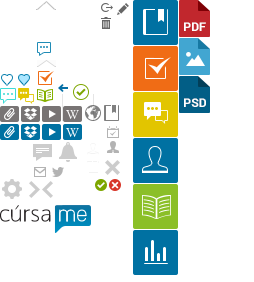
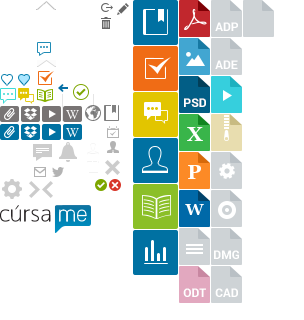
Libreria en curso

diff --git a/app/assets/stylesheets/global/_icons.scss b/app/assets/stylesheets/global/_icons.scss
@@ -70,13 +70,32 @@
 
 /* File Types Icons */
 .i-file-type-dimension { width: 31px; height: 37px; }
-.i-type-image { @extend .i-file-type-dimension; background-position: -179px -38px; }
-
 @each $image-type in png, jpg, jpeg, gif, tif, bmp  {
   .i-type-#{$image-type} {
-    @extend .i-type-image
+    @extend .i-type-image;
   }
 }
 
+@each $image-type in avi, mp4, mov, wma, mpge, flv, m4v  {
+  .i-type-#{$image-type} {
+    @extend .i-type-video;
+  }
+}
+
+.i-type-image { @extend .i-file-type-dimension; background-position: -179px -38px; }
+.i-type-video { @extend .i-file-type-dimension; background-position: -211px -76px; }
 .i-type-pdf { @extend .i-file-type-dimension; background-position: -179px 0; }
 .i-type-psd { @extend .i-file-type-dimension; background-position: -179px -76px; }
+.i-type-xls, .i-type-xlsx { @extend .i-file-type-dimension; background-position: -179px -114px; }
+.i-type-ppt, .i-type-pptx { @extend .i-file-type-dimension; background-position: -179px -152px; }
+.i-type-txt { @extend .i-file-type-dimension; background-position: -179px -228px; }
+.i-type-doc, .i-type-docx { @extend .i-file-type-dimension; background-position: -179px -190px; }
+.i-type-odt { @extend .i-file-type-dimension; background-position: -179px -266px; }
+.i-type-adp { @extend .i-file-type-dimension; background-position: -211px 0; }
+.i-type-ade { @extend .i-file-type-dimension; background-position: -211px -38px; }
+.i-type-exe { @extend .i-file-type-dimension; background-position: -211px -152px; }
+.i-type-zip, .i-type-rar { @extend .i-file-type-dimension; background-position: -211px -114px; }
+.i-type-iso { @extend .i-file-type-dimension; background-position: -211px -190px; }
+.i-type-dmg { @extend .i-file-type-dimension; background-position: -211px -228px; }
+.i-type-cad { @extend .i-file-type-dimension; background-position: -211px -266px; }
+.i-type-default { @extend .i-file-type-dimension; background-position: -243px 0; }

diff --git a/app/assets/stylesheets/buttons/_skin.scss b/app/assets/stylesheets/buttons/_skin.scss
@@ -46,7 +46,7 @@
 }
 
 .btn-secondary {
-  color: #808080;
+  color: #666;
   background: #f2f2f2;
   border: 1px solid #d9d9d9;
 
@@ -69,4 +69,28 @@
   border: 1px solid lighten($meta-color, 30);
   color: lighten($meta-color, 15);
   cursor: default;
+}
+
+.group-buttons {
+  border-radius: $radius;
+  @include clearfix;
+
+  .button {
+    .btn {
+      border-radius: 0;
+      border-width: 0 0 0 1px;
+    }
+
+    &:first-child .btn {
+      border-radius: $radius 0 0 $radius;
+    }
+
+    &:last-child .btn {
+      border-radius: 0 $radius $radius 0;
+    }
+  }
+
+  &.hard-border {
+    box-shadow: 0 0 0 1px rgba(0,0,0,.5)
+  }
 }

diff --git a/app/assets/stylesheets/profiles/_skeleton.scss b/app/assets/stylesheets/profiles/_skeleton.scss
@@ -3,12 +3,21 @@
 ----------------------------------*/
 .profile-cover-photo {
   height: 180px;
-  overflow: hidden;
   position: relative;
 
   img {
     width: 100%;
     height: auto;
+  }
+
+  .wrapper {
+    position: relative
+  }
+
+  .admin-buttons {
+    position: absolute;
+    right: 10px;
+    top: 140px;
   }
 
   &:after {

diff --git a/app/assets/stylesheets/profiles/_skin.scss b/app/assets/stylesheets/profiles/_skin.scss
@@ -1,7 +1,10 @@
 
 /* Courses and User Profiles
 ----------------------------------*/
-.profile-cover-photo {  
+.profile-cover-photo {
+  background-size: cover;
+  background-repeat: no-repeat;
+  background-position: center center;
 
   &:after {
     content: "";

diff --git a/app/assets/stylesheets/buttons/_skeleton.scss b/app/assets/stylesheets/buttons/_skeleton.scss
@@ -42,3 +42,15 @@
   }
 }
 
+.group-buttons {
+  @include clearfix;
+
+  .button {
+    float: left;
+    margin-left: -1px;
+
+    &:first-child {
+      margin-left: 0;
+    }
+  }
+}

diff --git a/app/controllers/course_files_controller.rb b/app/controllers/course_files_controller.rb
@@ -42,6 +42,8 @@ class CourseFilesController < ApplicationController
       @name = @file
       @sintetic_name = @split_name
 
+      @course_files = Course.find(@course).course_files
+
       @course_file.destroy
     respond_to do |format|
       format.js
